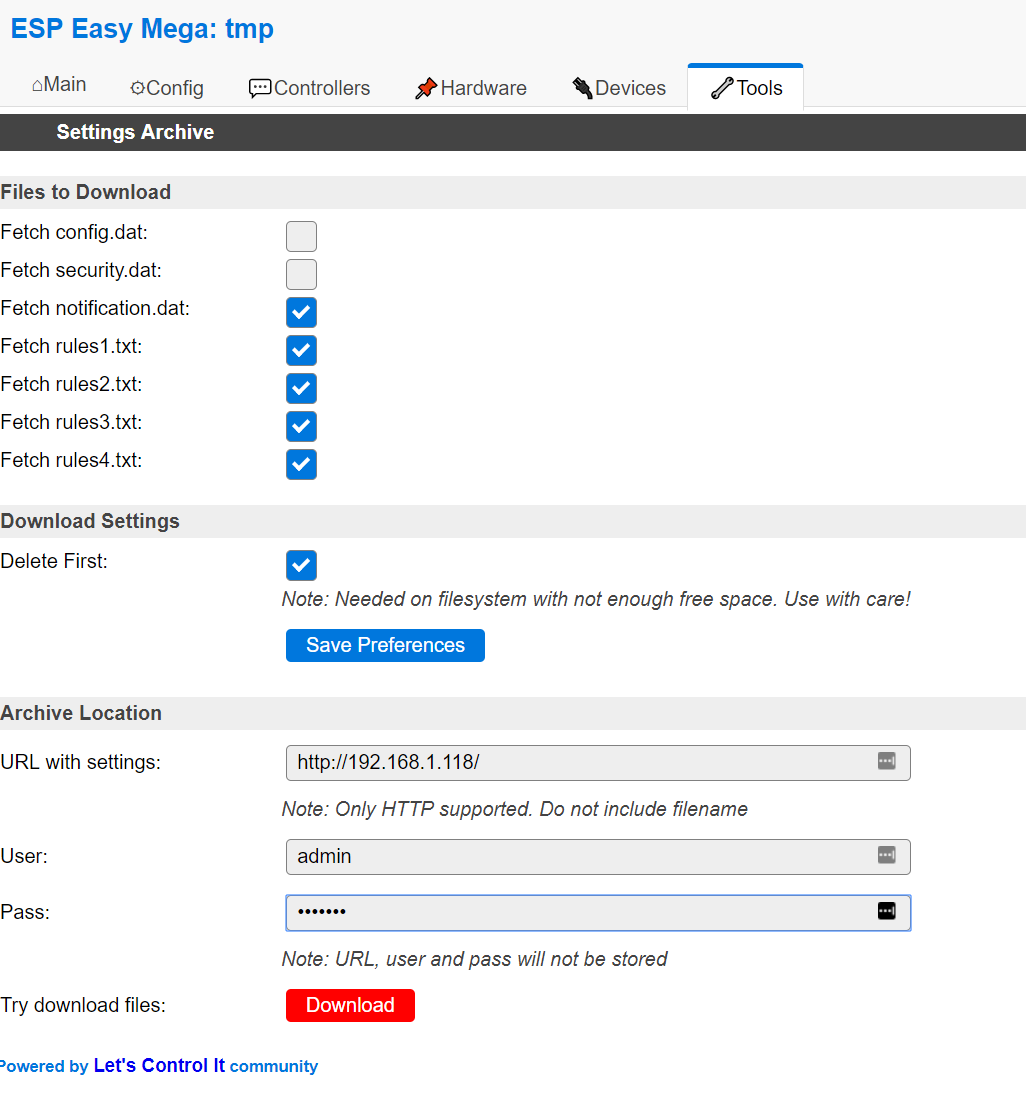
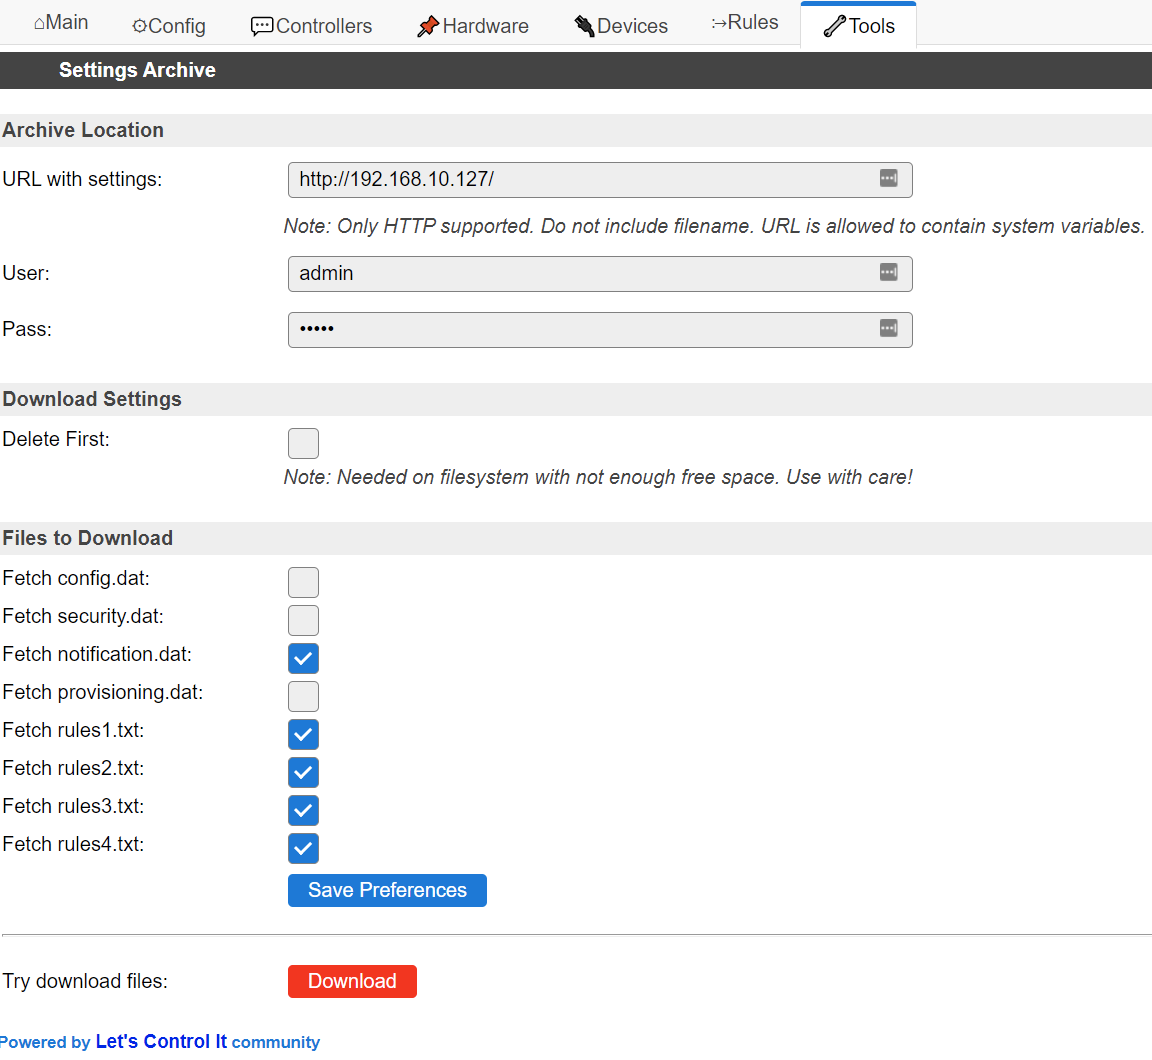
[Provisioning] Add documentation

diff --git a/src/src/Helpers/ESPEasy_Storage.cpp b/src/src/Helpers/ESPEasy_Storage.cpp
@@ -1649,16 +1649,17 @@ String getPartitionTable(byte pType, const String& itemSep, const String& lineEn
 #ifdef USE_DOWNLOAD
 String downloadFileType(const String& url, const String& user, const String& pass, FileType::Enum filetype, unsigned int filenr)
 {
-  if (!ResetFactoryDefaultPreference.allowFetchByCommand() || !getDownloadFiletypeChecked(filetype, filenr)) {
+  if (!getDownloadFiletypeChecked(filetype, filenr)) {
     // Not selected, so not downloaded
     return F("Not Allowed");
   }
 
   String filename = getFileName(filetype, filenr);
   String fullUrl;
+
   fullUrl.reserve(url.length() + filename.length() + 1); // May need to add an extra slash
   fullUrl = url;
-  fullUrl = parseTemplate(fullUrl, true); // URL encode
+  fullUrl = parseTemplate(fullUrl, true);                // URL encode
 
   // URLEncode may also encode the '/' into "%2f"
   // FIXME TD-er: Can this really occur?
@@ -1667,29 +1668,37 @@ String downloadFileType(const String& url, const String& user, const String& pas
   while (filename.startsWith(F("/"))) {
     filename = filename.substring(1);
   }
+
   if (!fullUrl.endsWith(F("/"))) {
     fullUrl += F("/");
   }
   fullUrl += filename;
 
   String error;
+
   if (ResetFactoryDefaultPreference.deleteFirst()) {
     if (fileExists(filename) && !tryDeleteFile(filename)) {
       return F("Could not delete existing file");
     }
+
     if (!downloadFile(fullUrl, filename, user, pass, error)) {
       return error;
     }
   } else {
     if (fileExists(filename)) {
+      String filename_bak = filename;
+      filename_bak += F("_bak");
+      if (fileExists(filename_bak)) {
+        return F("Could not rename to _bak");
+      }
+
       // Must download it to a tmp file.
       String tmpfile = filename;
-      tmpfile += F(".tmp");
+      tmpfile += F("_tmp");
+
       if (!downloadFile(fullUrl, tmpfile, user, pass, error)) {
         return error;
       }
-      String filename_bak = filename;
-      filename_bak += F("_bak");
 
       if (fileExists(filename) && !tryRenameFile(filename, filename_bak)) {
         return F("Could not rename to _bak");
@@ -1714,19 +1723,24 @@ String downloadFileType(const String& url, const String& user, const String& pas
   }
   return error;
 }
-#endif
+
+#endif // ifdef USE_DOWNLOAD
 
 #ifdef USE_CUSTOM_PROVISIONING
 
 String downloadFileType(FileType::Enum filetype, unsigned int filenr)
 {
-   String url, user, pass;
+  if (!ResetFactoryDefaultPreference.allowFetchByCommand()) {
+    return F("Not Allowed");
+  }
+  String url, user, pass;
 
   {
     MakeProvisioningSettings(ProvisioningSettings);
+
     if (AllocatedProvisioningSettings()) {
       loadProvisioningSettings(ProvisioningSettings);
-      url = ProvisioningSettings.url;
+      url  = ProvisioningSettings.url;
       user = ProvisioningSettings.user;
       pass = ProvisioningSettings.pass;
     }
@@ -1734,4 +1748,4 @@ String downloadFileType(FileType::Enum filetype, unsigned int filenr)
   return downloadFileType(url, user, pass, filetype, filenr);
 }
 
-#endif
+#endif // ifdef USE_CUSTOM_PROVISIONING

diff --git a/src/src/WebServer/SettingsArchive.cpp b/src/src/WebServer/SettingsArchive.cpp
@@ -48,9 +48,11 @@ void handle_settingsarchive() {
     }
 
     ResetFactoryDefaultPreference.deleteFirst(isFormItemChecked(F("del")));
+#ifdef USE_CUSTOM_PROVISIONING
     ResetFactoryDefaultPreference.saveURL(isFormItemChecked(F("saveurl")));
     ResetFactoryDefaultPreference.allowFetchByCommand(isFormItemChecked(F("allowcommand")));
     ResetFactoryDefaultPreference.storeCredentials(isFormItemChecked(F("savecred")));
+#endif
     applyFactoryDefaultPref();
 
     String error;
@@ -166,8 +168,10 @@ void handle_settingsarchive() {
     addRowLabel(F("Delete First"));
     addCheckBox("del", ResetFactoryDefaultPreference.deleteFirst());
     addFormNote(F("Needed on filesystem with not enough free space. Use with care!"));
+    #ifdef USE_CUSTOM_PROVISIONING
     addFormCheckBox(F("Allow Fetch by Command"), F("allowcommand"), ResetFactoryDefaultPreference.allowFetchByCommand());
-    addFormNote(F("Fetch files via a command does need a stored URL and credentials"));
+    addFormNote(F("Fetch files via a command does need stored URL (+ credentials)"));
+    #endif
 
     addTableSeparator(F("Files to Download"), 2, 3);
     for (int i = 0; i < FileType::MAX_FILETYPE; ++i) {
@@ -181,12 +185,11 @@ void handle_settingsarchive() {
       addDownloadFiletypeCheckbox(FileType::RULES_TXT, i);
     }
 
-    addFormSeparator(2);
-
     html_TR_TD();
     html_TD();
     addSubmitButton(F("Save Preferences"), F("savepref"));
 
+    addFormSeparator(2);
     addRowLabel(F("Try download files"));
     addSubmitButton(F("Download"), F("download"), F("red"));
   }

diff --git a/src/src/Helpers/Networking.cpp b/src/src/Helpers/Networking.cpp
@@ -1228,7 +1228,8 @@ bool downloadFile(const String& url, String file_save, const String& user, const
     error  = F("HTTP code: ");
     error += httpCode;
     error += ' ';
-    error += file_save;
+    error += url;
+
     addLog(LOG_LEVEL_ERROR, error);
     http.end();
     return false;

diff --git a/docs/source/Tools/Tools.rst b/docs/source/Tools/Tools.rst
@@ -590,12 +590,42 @@ Especially if the node is hard to reach for a proper clean setup.
 .. image:: images/SettingsArchive_download2.png
 
 After downloading the files, a summary is given.
+
 A returned error can be something like 404 (file not available) or 401 (not authorized).
 These are the standard HTTP error codes.
+The error will be ``-1`` if the host is unreachable.
+
+If a file already exists, the new file is downloaded with ``_tmp`` appended to the filename.
+If successful, the original file will be renamed to one with ``_bak`` appended to the filename and then the ``_tmp`` version is renamed to the original filename.
+However, if the ``_bak`` is present, it may fail to rename the original one, so the operation fails.
+The presence of the ``_bak`` file is also some protection to not being able to fetch a new version, unless the "Delete First" option is checked.
 
 If ''config.dat'' or ''security.dat'' was downloaded, it is very important to do a reboot and not try to change (and save) anything on the ESPeasy node.
 The old settings are still active in memory and if something will be saved, only the changed part may be saved.
 This would corrupt the settings file.
+
+
+With only ``USE_SETTINGS_ARCHIVE`` defined during build, the URL and credentials cannot be stored.
+For this the build must be made with ``USE_CUSTOM_PROVISIONING`` defined.
+
+N.B. ``USE_CUSTOM_PROVISIONING`` is added on 2021-05-16.
+
+
+URL with Settings
+^^^^^^^^^^^^^^^^^
+
+This holds the full URL without file name where the files must be fetched from.
+
+Since builds made after 2021-05-16, the URL may also contain system variables.
+This allows for an URL like: ``http://192.168.10.127/%mac%``
+
+System variables will be converted into an URL encoded form, which may end up like this:
+
+* ``http://192.168.10.127/A0%3a20%3aA6%3a14%3a84%3a81/rules4.txt`` MAC address: ``A0:20:A6:14:84:81``
+
+The URL will not be stored, unless the build is made with ``USE_CUSTOM_PROVISIONING`` defined and the option is checked to save the URL. (option only present when ``USE_CUSTOM_PROVISIONING`` defined)
+
+Using system variables may allow for multi stage setup of a node, as you could for example fetch a rule which may set a variable to a new value and thus new files may be fetched from a different URL.
 
 
 Side Effects on cloning
@@ -611,3 +641,47 @@ If the original node is configured to use static IP, the clone will use the same
 This can render both inaccessible.
 
 
+Provisioning
+============
+
+Added: 2021-05-16
+
+When the build is made with ``USE_CUSTOM_PROVISIONING`` defined, this Settings Archive screen does allow for more settings helping deployment and remote administration of ESPEasy nodes.
+
+All Settings on the Settings Archive page can be stored in a file named ``provisioning.dat``.
+This file also can store the factory default settings like the device model to ease deployment of a large number of nodes.
+
+N.B. The ``USE_SETTINGS_ARCHIVE`` define is needed to allow to edit the ``provisioning.dat`` file, but it is not needed to use the provisioning feature.
+
+
+.. image:: images/SettingsArchive_provisioning.png
+
+As can be seen, the URL and credentials can be stored.
+This will be stored in a file named ``provisioning.dat`` 
+Such a file may also be fetched from a server.
+
+The ``provisioning.dat`` file can also be automatically generated when performing a factory reset.
+For this the (custom) build must be prepared via a number of defined defaults.
+See the ``Custom-sample.h`` file for some examples.
+
+
+Allow Fetch by Command
+^^^^^^^^^^^^^^^^^^^^^^
+
+This checkbox allows provisioning via commands.
+These commands are not restricted, so they can also be given via HTTP or MQTT.
+
+However, they can only be executed when:
+
+* Allow Fetch by Command is enabled
+* the file to download is checked
+* URL (+ optional credentials) is stored
+
+The commands are:
+
+
+* ``ProvisionConfig`` Fetch ``config.dat``
+* ``ProvisionSecurity`` Fetch ``security.dat``
+* ``ProvisionNotification`` Fetch ``notification.dat``
+* ``ProvisionProvision`` Fetch ``provisioning.dat``
+* ``ProvisionRules,1`` Fetch ``rules1.txt``
